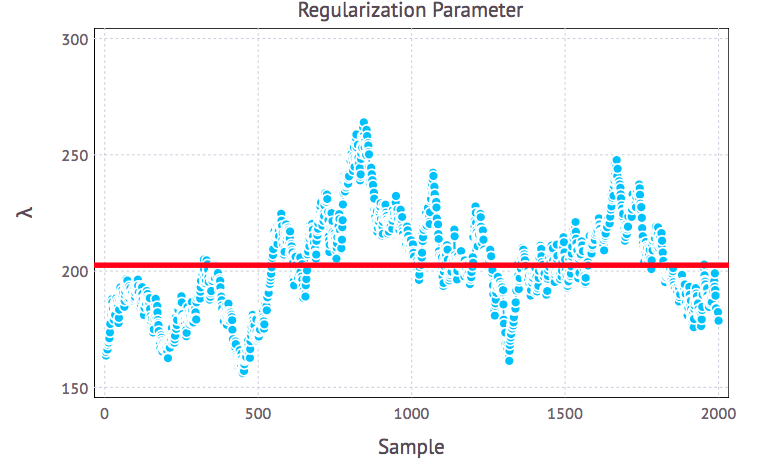
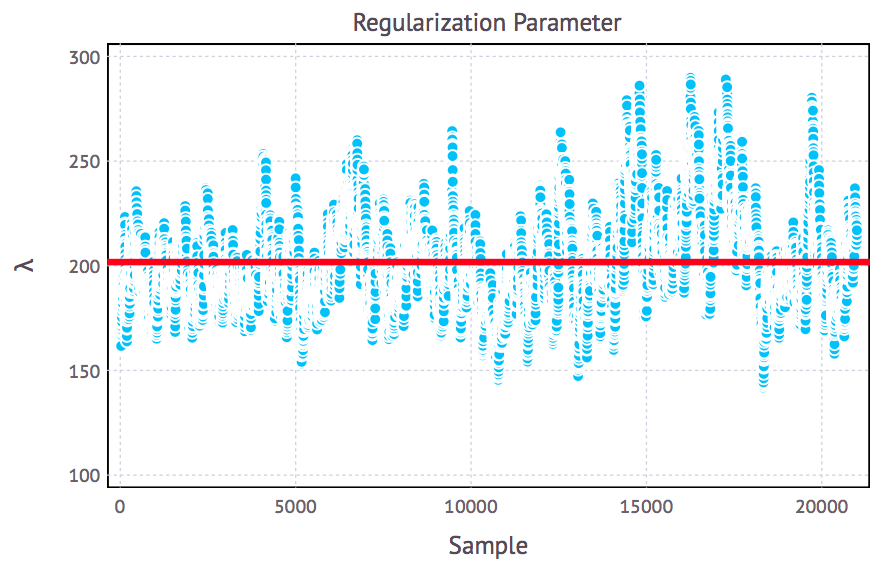
update figures

Changed region(s): [[0.0, 0.0, 1.0, 0.9767], [0.9723, 0.2664, 1.0, 0.296], [0.9723, 0.0888, 1.0, 0.1184]]

diff --git a/README.md b/README.md
@@ -268,10 +268,6 @@ using Gadfly
 
 #Plots
 
-  Guide.xticks(ticks=[0,2000,4000,6000,8000,10000]),
-          Guide.xlabel("Marker position (order)"),
-          Guide.ylabel("|&beta;<sub>j</sub>|"))
-
   #a)
   plot(x=[1:10346],y=fm.ETA["Mrk"].post_effects.^2,
        Geom.point,Geom.line,
@@ -295,6 +291,7 @@ using Gadfly
        Geom.hline(color=color("red"),size=1mm),
        Geom.point,
        Geom.line,
+       Guide.xticks(ticks=[0,5000,10000,15000,20000]),
        Theme(panel_stroke=color("black")),
        Guide.xlabel("Sample"),
        Guide.ylabel("&sigma;<sub>e</sub> <sup>2</sup>"),
@@ -307,6 +304,7 @@ using Gadfly
        Geom.hline(color=color("red"),size=1mm),
        Geom.point,
        Geom.line,
+       Guide.xticks(ticks=[0,5000,10000,15000,20000]),
        Theme(panel_stroke=color("black")),
        Guide.xlabel("Sample"),
        Guide.ylabel("&lambda;"),
